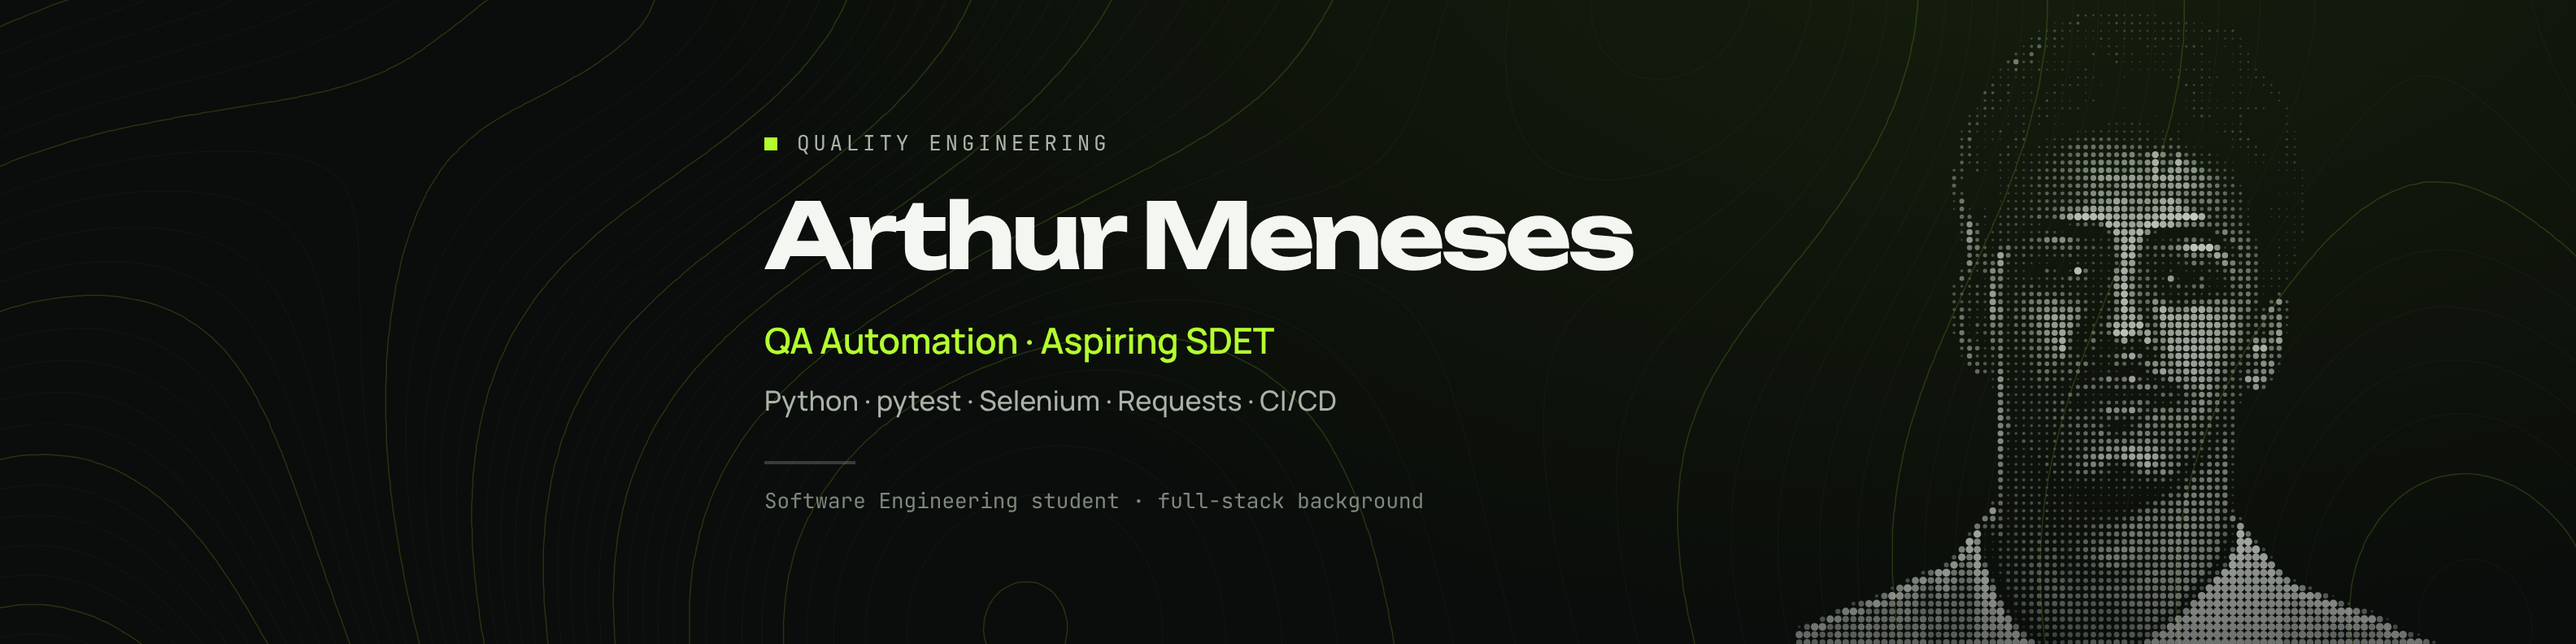
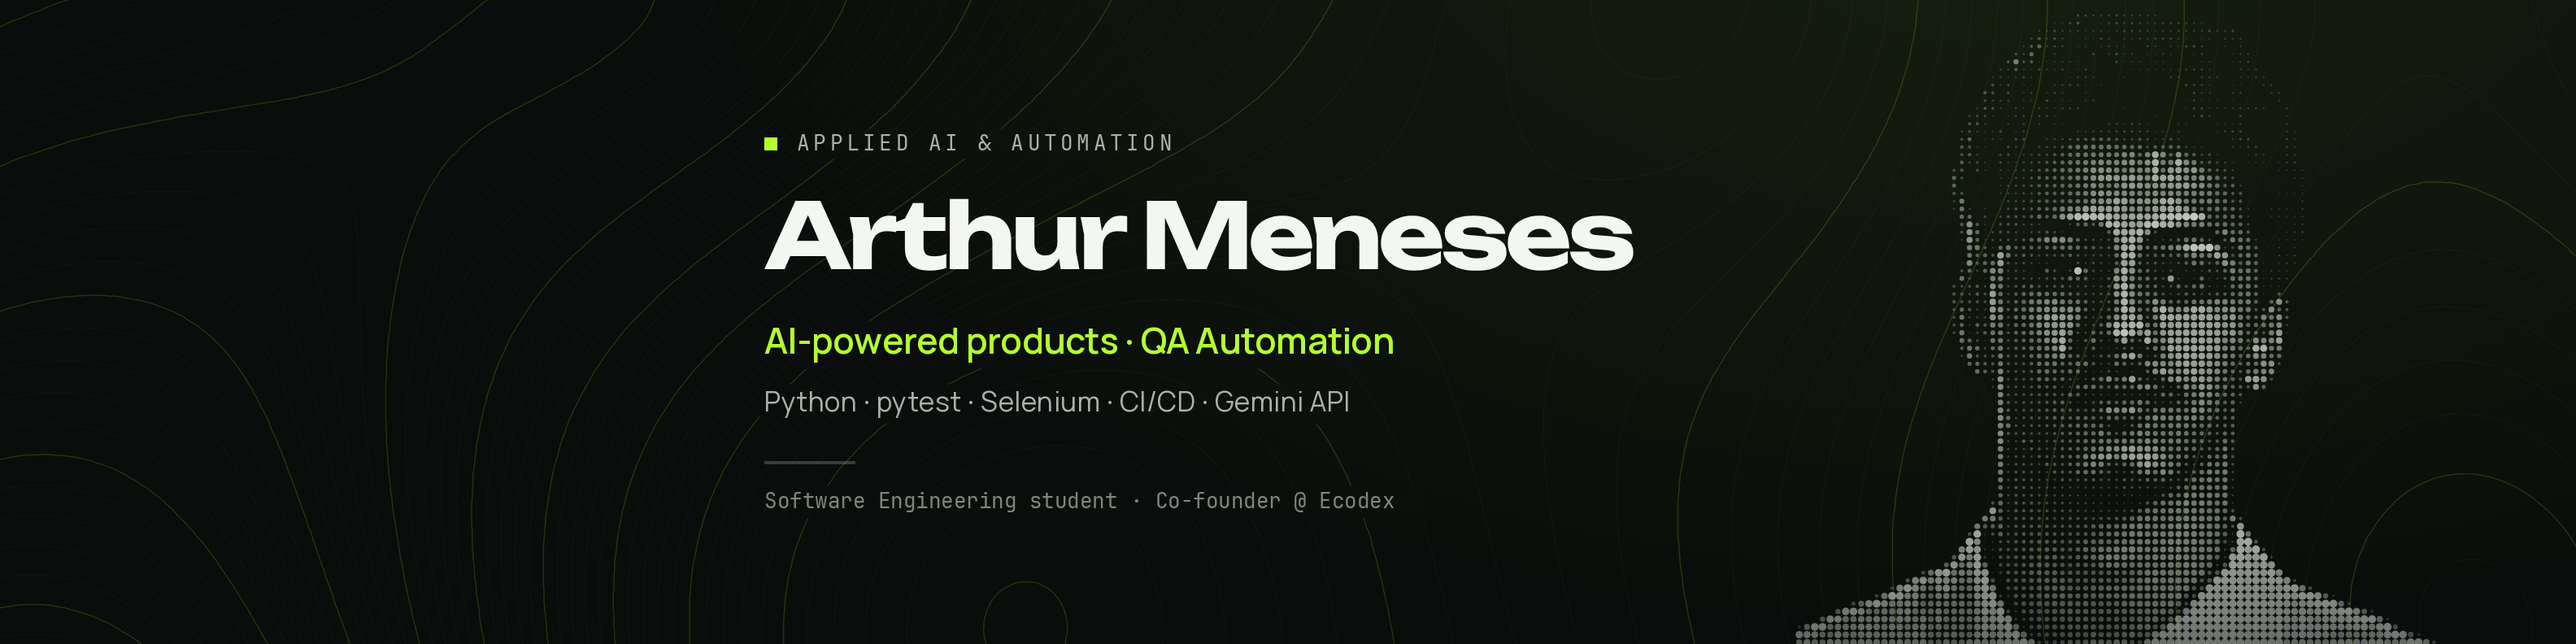
Reposition profile toward applied AI and automation
Rewrite the profile README and banner text: applied AI and automation
as the focus, QA automation as the most proven skill, SDET removed as a
goal. Feature Totem Barbearia first and the QA portfolio second. Leave
unconfirmed Ecodex items out.

diff --git a/README.md b/README.md
@@ -1,11 +1,11 @@
 <a href="https://www.linkedin.com/in/arthurdtz">
-  <img src="assets/banner.png" alt="Arthur Meneses · QA Automation · Co-founder & Tech Lead at ecodex" width="100%" />
+  <img src="assets/banner.png" alt="Arthur Meneses · Applied AI & Automation · AI-powered products and QA Automation · Software Engineering student · Co-founder at Ecodex" width="100%" />
 </a>
 
 <div align="center">
   <br />
-  <p><b>Software Engineering Student | Co-founder & Tech Lead at ecodex</b></p>
-  <p>Strategy & Technology · Test & Process Automation · Python · SQL</p>
+  <p><b>Software Engineering Student | Applied AI & Automation | Co-founder at Ecodex</b></p>
+  <p>AI-powered products · Automation · QA Automation with Python</p>
   <p>
     <a href="https://www.linkedin.com/in/arthurdtz">
       <img src="https://img.shields.io/badge/LinkedIn-A3FF12?style=for-the-badge&logo=linkedin&logoColor=080C0B&labelColor=A3FF12" alt="LinkedIn" />
@@ -17,56 +17,67 @@
 
 ### About me
 
-I'm a **Software Engineering** student and co-founder of **ecodex**, where I lead **strategy and technology**: I decide how each business problem becomes a solution and make sure what we ship actually works.
+I'm a **Software Engineering** student focused on **applied AI and automation**: products and workflows where an AI model does part of the job and the result still has to be reliable.
 
-I come from development (mobile apps with **Flutter and Dart**) and chose **software quality** as my specialty. That means I look at every delivery with a tester's eye: APIs, UI, data flow, and the edge cases that break in production. Today I build automated test suites with **Python, pytest, Selenium, and Requests**, and I'm growing toward **SDET and CI/CD**.
+My most proven skill today is **QA automation with Python**. I've built API and UI test suites with pytest, Requests and Selenium that run in GitHub Actions CI. I use that testing background to decide how an AI feature should behave and what has to be checked before it ships.
+
+I also build products with AI coding tools: I write the specs, UX decisions and acceptance criteria, and review what gets built. Next, I'm going deeper into **data and SQL**.
 
 ---
 
-### Recent work at ecodex
+### Featured projects
 
-We're building the ecodex website from scratch, with a diagnostic intake form and a private leads dashboard.
+**[Totem Barbearia](https://github.com/arthurdtz/totem-barbearia)** · Collaborative project · React, Express, Google Gemini
 
-- **Leads admin API:** search, filters, and editing with optimistic locking (conflicts return `409`, so nobody silently overwrites someone else's work).
-- **Dashboard metrics API:** funnel numbers checked one by one against raw SQL queries on the database.
-- **Accessibility, performance, and SEO QA (with Ryan):** zero axe violations across 5 screens and 4 viewport widths; mobile LCP down from 2.7 s to under 2 s.
-- **Code review and testing:** reviewed the intake form deliveries (multi-step and one-question-at-a-time dialog); the project has **900+ automated tests**.
-- **Visual direction and architecture:** defined the site's visual direction and stack with Ryan (TypeScript, React, Cloudflare Workers, and D1).
-- **Field diagnosis:** mapped local businesses and ran mystery shopper simulations to find where operations lose time and money.
+A web app that shows a barbershop client AI-generated previews of haircuts and beards from their own photo.
+
+- **What the product does:** photo capture or upload, style suggestions, AI previews with Gemini, before-and-after comparison, and favorites. Requests are validated and rate-limited before they reach the AI provider.
+- **What I did:** contributed to product and UX, helped define the user flow, and set up the Gemini API key and prompt.
+- **Still planned:** automated tests and a formal evaluation of the AI output against a rubric. Neither has been run yet.
+
+**[QA Automation Portfolio](https://github.com/arthurdtz/qa-automation-portfolio)** · Python, pytest, Requests, Selenium, GitHub Actions
+
+- API tests for an authenticated REST API: GET (200 and 404), POST 201, PUT 200 and DELETE 204.
+- Selenium UI tests for a login page (valid user, invalid user, invalid password) with the Page Object Model.
+- GitHub Actions runs both suites on every push and pull request and publishes HTML reports.
+
+---
+
+### At Ecodex
+
+**Co-founder, Strategy & Technology** · since Oct 2026
+
+- I turn client diagnostics into action plans: what changes, what to automate, and where technology makes a difference.
+- Delivered [ecodex.site](https://ecodex.site) with my co-founder, directing the build with AI tools.
 
 ---
 
 ### Tech & Tools
 
-#### Quality & Test Automation
+#### Testing & automation (most proven)
 <p>
   <img src="https://img.shields.io/badge/Python-080C0B?style=for-the-badge&logo=python&logoColor=A3FF12" alt="Python" />
   <img src="https://img.shields.io/badge/pytest-080C0B?style=for-the-badge&logo=pytest&logoColor=A3FF12" alt="pytest" />
   <img src="https://img.shields.io/badge/Selenium-080C0B?style=for-the-badge&logo=selenium&logoColor=A3FF12" alt="Selenium" />
   <img src="assets/badges/requests.svg" alt="Requests" />
-  <img src="https://img.shields.io/badge/axe_core-080C0B?style=for-the-badge&logo=deque&logoColor=A3FF12" alt="axe" />
+  <img src="assets/badges/github-actions.svg" alt="GitHub Actions" />
 </p>
 
-#### Development & Data
+#### AI
+<p>
+  <img src="assets/badges/gemini-api.svg" alt="Gemini API" />
+  <img src="assets/badges/claude-code.svg" alt="Claude Code" />
+</p>
+
+#### Used in AI-assisted builds
 <p>
   <img src="https://img.shields.io/badge/TypeScript-080C0B?style=for-the-badge&logo=typescript&logoColor=A3FF12" alt="TypeScript" />
   <img src="https://img.shields.io/badge/React-080C0B?style=for-the-badge&logo=react&logoColor=A3FF12" alt="React" />
   <img src="https://img.shields.io/badge/Cloudflare_Workers-080C0B?style=for-the-badge&logo=cloudflare&logoColor=A3FF12" alt="Cloudflare Workers" />
-  <img src="https://img.shields.io/badge/SQL-080C0B?style=for-the-badge&logo=sqlite&logoColor=A3FF12" alt="SQL" />
-  <img src="https://img.shields.io/badge/Flutter-080C0B?style=for-the-badge&logo=flutter&logoColor=A3FF12" alt="Flutter" />
-  <img src="https://img.shields.io/badge/Dart-080C0B?style=for-the-badge&logo=dart&logoColor=A3FF12" alt="Dart" />
   <img src="https://img.shields.io/badge/Git-080C0B?style=for-the-badge&logo=git&logoColor=A3FF12" alt="Git" />
 </p>
 
-#### Currently learning
+#### Learning next
 <p>
-  <img src="https://img.shields.io/badge/GitHub_Actions-151B19?style=for-the-badge&logo=githubactions&logoColor=A3FF12" alt="GitHub Actions" />
-  <img src="https://img.shields.io/badge/Test_Design-151B19?style=for-the-badge&logoColor=A3FF12" alt="Test Design" />
-  <img src="https://img.shields.io/badge/BDD-151B19?style=for-the-badge&logoColor=A3FF12" alt="BDD" />
+  <img src="assets/badges/sql-learning.svg" alt="SQL" />
 </p>
-
----
-
-### Featured project
-
-**[qa-automation-portfolio](https://github.com/arthurdtz/qa-automation-portfolio)** · API and UI test automation with Python, pytest, Requests, and Selenium.
